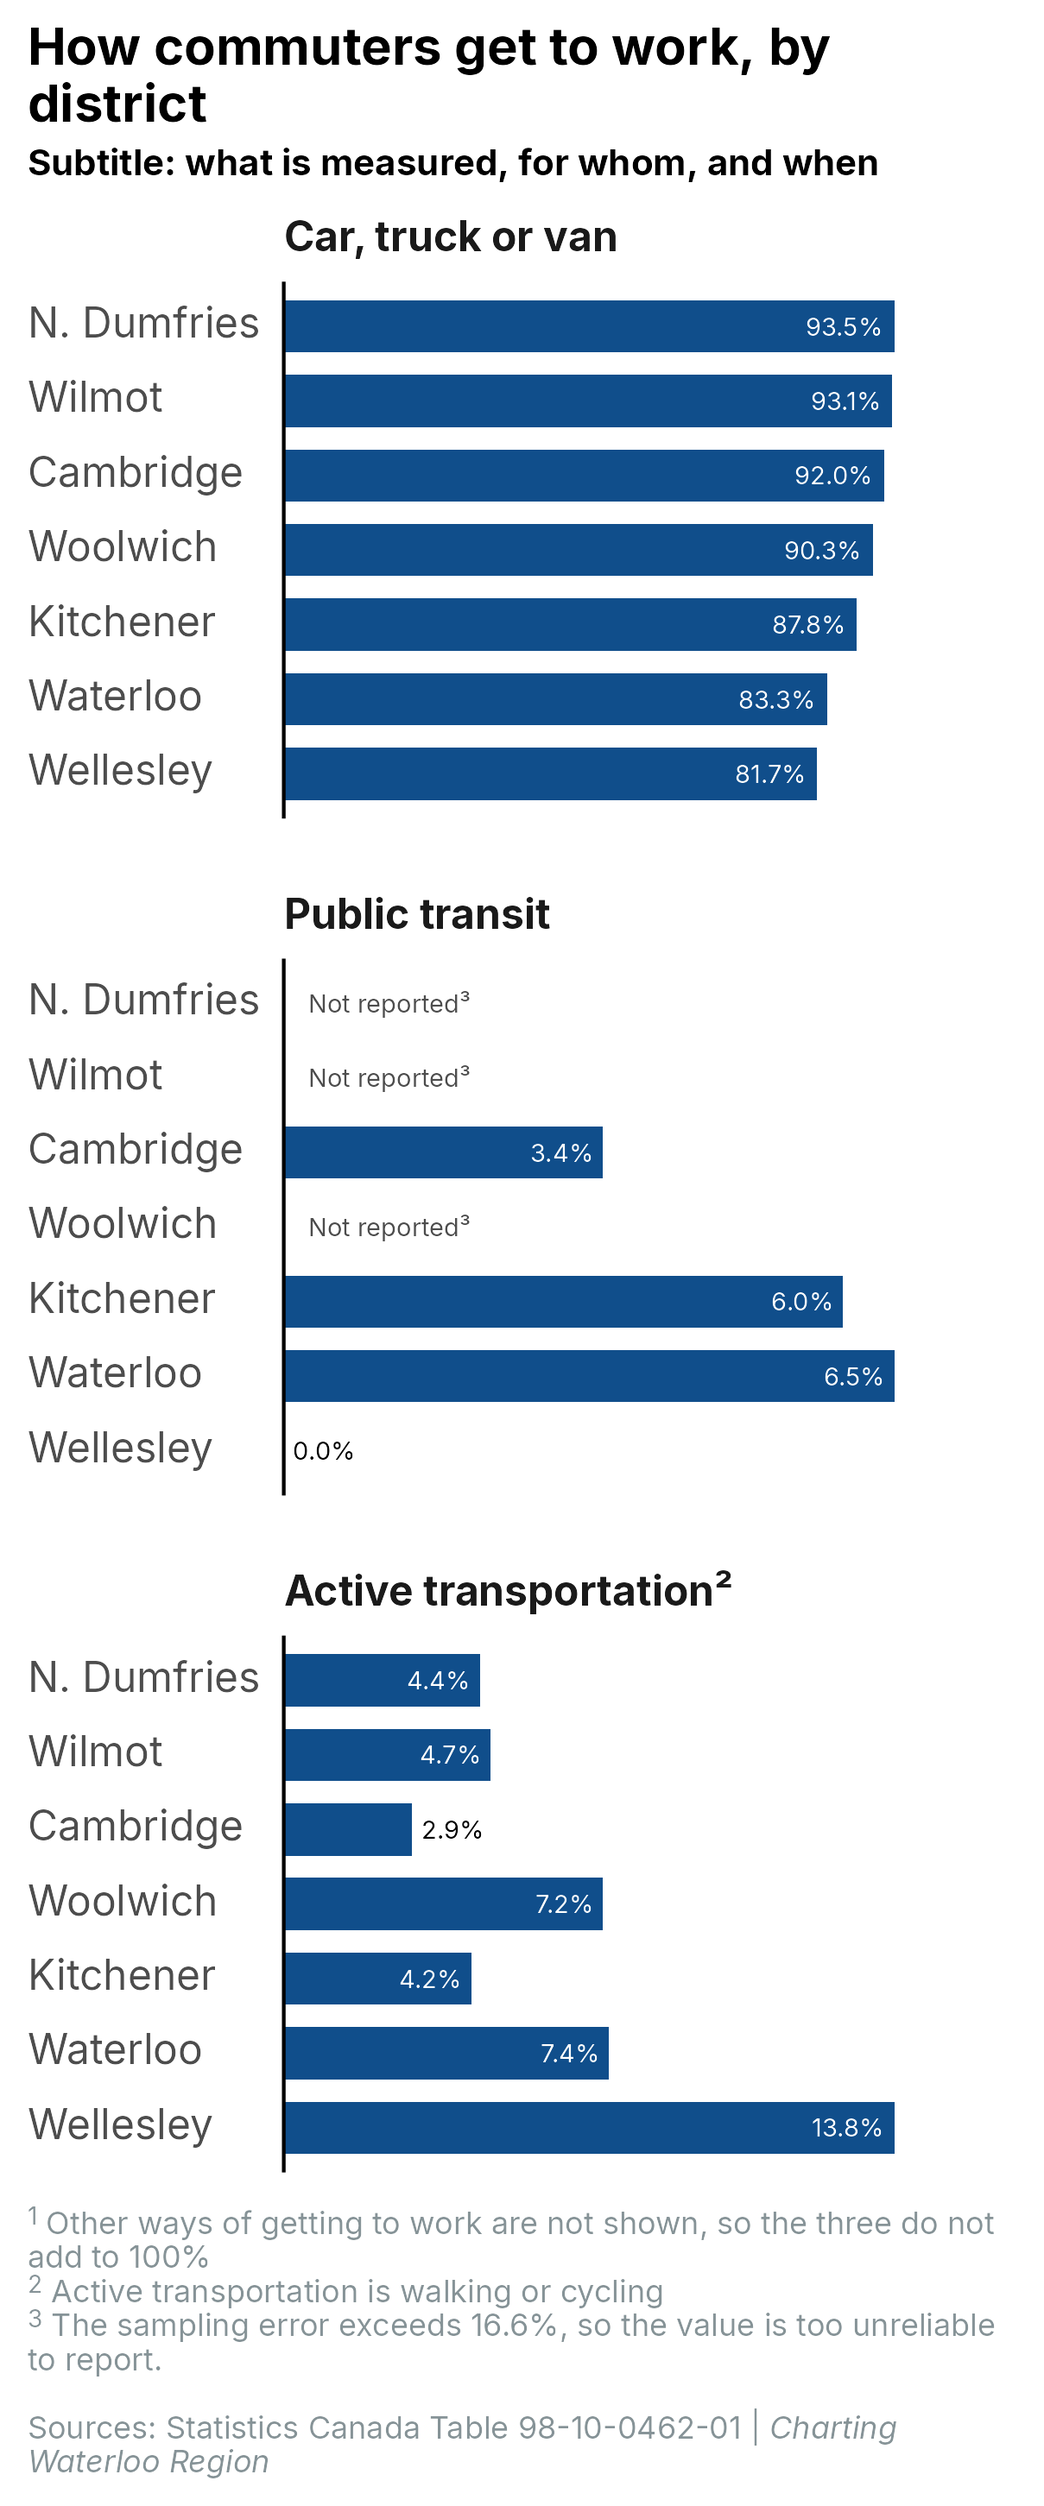
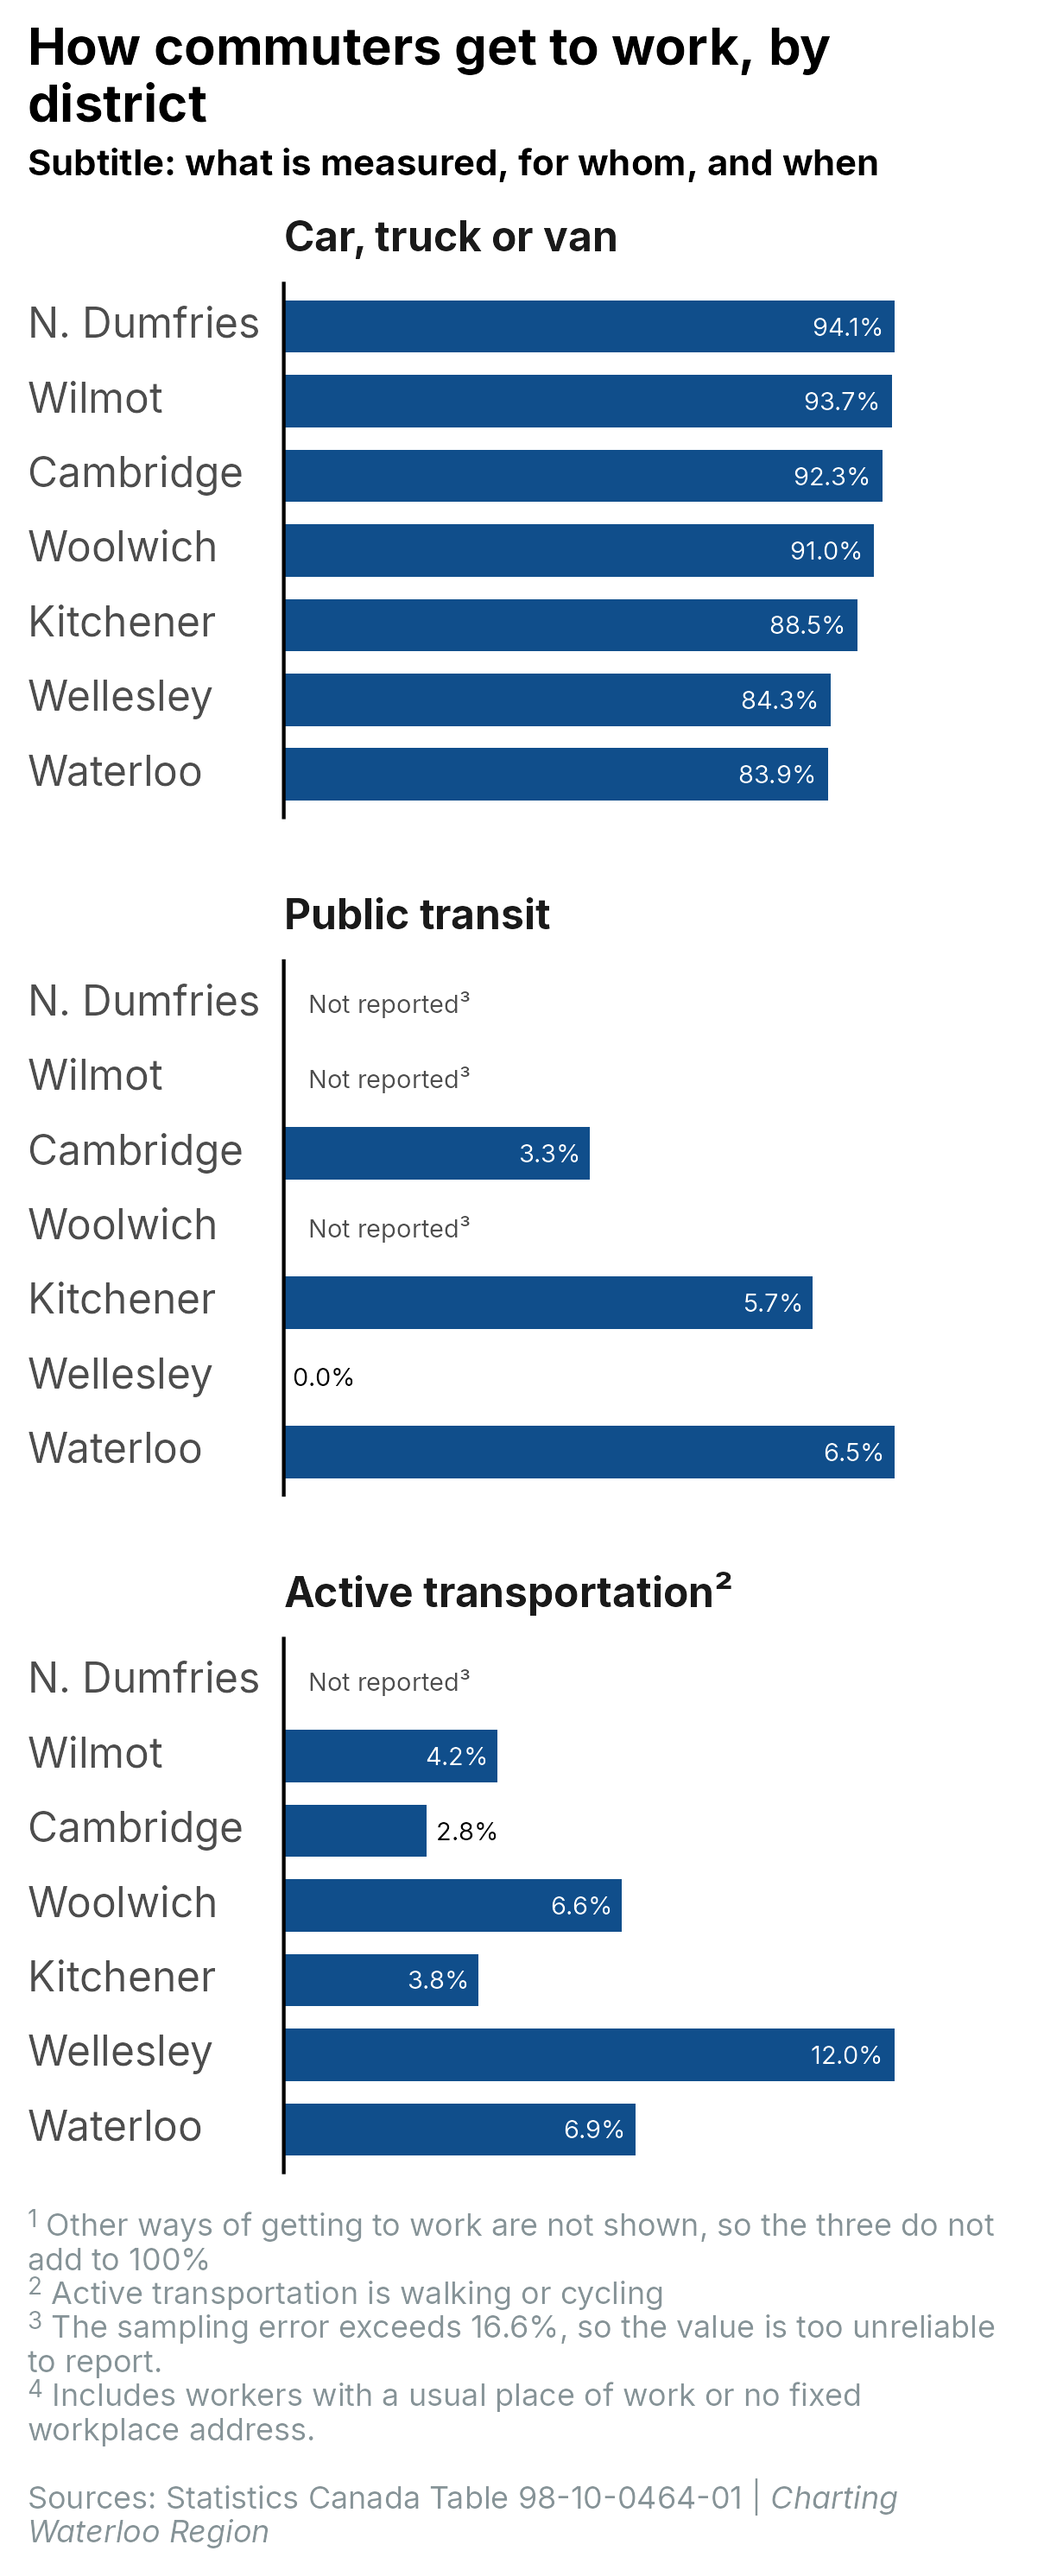
Draw the commuting mode chart from table 98-10-0464
98-10-0462's mode counts cover only workers with a usual place of work; the
mode question also covers people with no fixed workplace address, and
98-10-0464 counts them (200,595 commuters in the Region, not 171,575). It
matches Statistics Canada's own commuting release. Its 96 cells are fetched
one by one from the web data service, keeping each cell's status. North
Dumfries' active share is now rated E and not reported.

diff --git a/posts/commuting/README.md b/posts/commuting/README.md
@@ -6,7 +6,7 @@ Post: https://chartingwaterlooregion.ca/posts/commuting/
 
 | Term | Definition |
 |------------------------------------|------------------------------------|
-| Commuters (who is counted) | "Population aged 15 years and over, in private households, with a job or absent from their job or business during the week of Sunday, May 2 to Saturday, May 8, 2021, and who reported having a usual place of work." People who worked at home, worked outside Canada or had no fixed workplace address are not included. (2021 Census Dictionary) |
+| Commuters (who is counted) | "Population aged 15 years and over, in private households, with a job or absent from their job or business during the week of Sunday, May 2 to Saturday, May 8, 2021, and who reported having a usual place of work or no fixed workplace address." (2021 Census Dictionary, Main mode of commuting) The charts of where commuters work count only those "who reported having a usual place of work" (2021 Census Dictionary, Commuting destination); the chart of how they get to work also counts those with no fixed workplace address. People who worked at home or outside Canada are in neither. |
 | Home district | Workers who work in the township/city they live in. |
 | Elsewhere in Region | Workers who work in a Region township/city other than their home district. |
 | Outside Region | Workers who work outside the Region. |
@@ -33,6 +33,7 @@ Post: https://chartingwaterlooregion.ca/posts/commuting/
 | File in `data-raw/` | What it is | Source (link) | Licence | Sample | Accessed |
 |------------|------------|------------|------------|------------|------------|
 | `table_98100462.csv` | Table 98-10-0462-01, commuting destination by mode, age and gender, 2021 census | [Statistics Canada](https://www150.statcan.gc.ca/t1/tbl1/en/tv.action?pid=9810046201) | [Statistics Canada Open Licence](https://www.statcan.gc.ca/en/reference/licence) | Census long form, 25% sample of private households | 2026-09-15 |
+| `table_98100464.csv` | Table 98-10-0464-01, main mode of commuting by industry sectors, occupation broad category and gender, 2021 census: the 96 cells the mode chart uses (the Region and its seven districts; total, car, truck or van, public transit and active transportation; each count with its 95% confidence interval bounds), fetched from Statistics Canada's web data service | [Statistics Canada](https://www150.statcan.gc.ca/t1/tbl1/en/tv.action?pid=9810046401) | [Statistics Canada Open Licence](https://www.statcan.gc.ca/en/reference/licence) | Census long form, 25% sample of private households | 2026-09-22 |
 | `table_98100459_region.csv`, `table_98100459_members.csv` | Table 98-10-0459-01, commuting flow from place of residence to place of work, 2021 census, cut to commutes with one end in the Region; the members file is the table's own list of places and codes | [Statistics Canada](https://www150.statcan.gc.ca/t1/tbl1/en/tv.action?pid=9810045901) | [Statistics Canada Open Licence](https://www.statcan.gc.ca/en/reference/licence) | Census long form, 25% sample of private households | 2026-09-17 |
 | `census_tnr.csv` | Long-form and short-form total non-response rates for the Region and its seven districts, read from each area's Census Profile page by `cwr_census_tnr()` | [Statistics Canada, Census Profile 2021](https://www12.statcan.gc.ca/census-recensement/2021/dp-pd/prof/index.cfm?Lang=E) | [Statistics Canada Open Licence](https://www.statcan.gc.ca/en/reference/licence) | None (rates about the census's own collection) | 2026-09-22 |
 | `table_98100572.csv` | Table 98-10-0572-01, long-form data quality indicators for commuting: non-response and imputation rates per question, cut to the Region's eight geographies | [Statistics Canada](https://www150.statcan.gc.ca/t1/tbl1/en/tv.action?pid=9810057201) | [Statistics Canada Open Licence](https://www.statcan.gc.ca/en/reference/licence) | Census long form, 25% sample of private households (the rates are weighted estimates) | 2026-09-22 |
@@ -44,12 +45,12 @@ Files that cannot be re-downloaded by script, or are over 25 MB, are attached to
 
 | Issue | Left out of the post because |
 |------------------------------------|------------------------------------|
-| **Long-form census:** every chart in this post is drawn from the 2021 census long-form questionnaire (tables 98-10-0462 and 98-10-0459). Its figures are estimates for people in private households, from the 2021 census long-form questionnaire sent to 25% of households; people living in collective dwellings, such as nursing and seniors' homes and student residences, are not included. Each responding household stands for about four, its weight adjusted by Statistics Canada for households that did not respond and matched to the full census counts of age, household size and other characteristics; answers left blank are filled in from similar households. (tables 98-10-0459, 98-10-0462) |  |
-| **Sample estimates:** because the figures are estimates, each share worked out from table 98-10-0462 has a 95% confidence interval, built from the intervals Statistics Canada publishes for its counts by Statistics Canada's own method. The intervals cover sampling error and the variability from households that did not respond; they do not cover any bias if those households differ from the ones that did, answers filled in for blank questions, people the census missed or counted twice, misreported answers, or rounding. A share whose sampling error is 16.6% of its value or more - rated "use with caution" (E) or "too unreliable to be published" (F) on Statistics Canada's scale - is not reported: public transit in North Dumfries (F), Wilmot (E) and Woolwich (E). Table 98-10-0459 publishes no intervals, so close rankings drawn from it may differ only by sampling error. (tables 98-10-0459, 98-10-0462) |  |
+| **Long-form census:** every chart in this post is drawn from the 2021 census long-form questionnaire (tables 98-10-0462, 98-10-0464 and 98-10-0459). Its figures are estimates for people in private households, from the 2021 census long-form questionnaire sent to 25% of households; people living in collective dwellings, such as nursing and seniors' homes and student residences, are not included. Each responding household stands for about four, its weight adjusted by Statistics Canada for households that did not respond and matched to the full census counts of age, household size and other characteristics; answers left blank are filled in from similar households. (tables 98-10-0459, 98-10-0462, 98-10-0464) |  |
+| **Sample estimates:** because the figures are estimates, each share worked out from tables 98-10-0462 and 98-10-0464 has a 95% confidence interval, built from the intervals Statistics Canada publishes for its counts by Statistics Canada's own method. The intervals cover sampling error and the variability from households that did not respond; they do not cover any bias if those households differ from the ones that did, answers filled in for blank questions, people the census missed or counted twice, misreported answers, or rounding. A share whose sampling error is 16.6% of its value or more - rated "use with caution" (E) or "too unreliable to be published" (F) on Statistics Canada's scale - is not reported: public transit in North Dumfries (F), Wilmot (E) and Woolwich (E), and active transportation in North Dumfries (E). Table 98-10-0459 publishes no intervals, so close rankings drawn from it may differ only by sampling error. (tables 98-10-0459, 98-10-0462, 98-10-0464) |  |
 | **Response rates:** 1.5% to 5.0% of the households sent the long form in each district returned nothing usable (3.3% for the Region; Statistics Canada advises caution only at 50% or more), and 1.3% to 4.6% of the answers to the place-of-work and mode-of-commuting questions were missing or filled in. (Census Profile 2021; table 98-10-0572) |  |
 | **Commuting flows:** Statistics Canada randomly rounds each flow to a multiple of 5 to protect confidentiality, so small flows, and the shares worked out from them, are approximate. (table 98-10-0459) <!-- flags: 98-10-0459:note1 --> |  |
-| **Not applicable:** three counts are zero (commuters from North Dumfries and Wellesley who work in another province, and Wellesley's transit commuters), and a zero count has no confidence interval, so its bounds are marked "..." (not applicable). (table 98-10-0462) <!-- flags: 98-10-0462:... --> | Does not apply: a share of zero has no interval, so these bounds are never used; the zero itself is charted as published. |
-| **Men+ and Women+:** because the non-binary population is small, non-binary people are counted in the Men+ and Women+ categories. (tables 98-10-0459, 98-10-0462) <!-- flags: 98-10-0459:note3, 98-10-0462:note3 --> | Does not apply: every chart uses the total for all genders, so the Men+ and Women+ split is not used. |
+| **Not applicable:** three counts are zero (commuters from North Dumfries and Wellesley who work in another province, in table 98-10-0462, and Wellesley's transit commuters, in table 98-10-0464), and a zero count has no confidence interval, so its bounds are marked "..." (not applicable). (tables 98-10-0462, 98-10-0464) <!-- flags: 98-10-0462:..., 98-10-0464:... --> | Does not apply: a share of zero has no interval, so these bounds are never used; the zero itself is charted as published. |
+| **Men+ and Women+:** because the non-binary population is small, non-binary people are counted in the Men+ and Women+ categories. (tables 98-10-0459, 98-10-0462, 98-10-0464) <!-- flags: 98-10-0459:note3, 98-10-0462:note3, 98-10-0464:note4 --> | Does not apply: every chart uses the total for all genders, so the Men+ and Women+ split is not used. |
 
 ```{=html}
 <!-- One row per data-quality issue in the data the post uses: each flag and quality footnote
@@ -96,5 +97,6 @@ Then `quarto render posts/commuting` from a terminal.
 
 - Background reading for this post is kept outside the repository (`../chartingwaterlooregion-background/commuting/`).
 - No API keys are needed. <!-- If one is, say which and how to get it. -->
-- Sampling: both commuting tables come from the 2021 census long-form questionnaire, which went to a 25% sample of private households, so every figure is a weighted estimate for everyone in private households (not a count of respondents, and without people in collective dwellings), and the charts show shares. The Reliability table's "Long-form census" and "Sample estimates" rows say so in the post; the charts carry no sampling note of their own. Table 98-10-0462 publishes a 95% confidence interval for each count (its `Statistics` dimension). `R/02_clean_data.R` turns those into 95% intervals for the shares in `commuting.csv` and `commuting_mode.csv` (`percent_lower`, `percent_upper`) with `R/census_ci.R`, which follows Statistics Canada's own method: each count's variance is backed out of its published modified Wilson interval (Student's t on 32 degrees of freedom), the share's standard error comes from the US Census Bureau's proportion formula, which allows for the part being counted inside the total, and the share's interval is a modified Wilson interval. `cv` is the coefficient of variation, and `quality` rates it on Statistics Canada's scale: E from 16.6%, F above 33.3%. E and F shares are blanked, as this site never uses either; the mode chart names them "Not reported" with a note. The first chart states the widest of its intervals in a note. The intervals are least exact for very small shares and small places, and too wide near 100% where the Census Bureau formula falls back to its cautious form (Wilmot's car share). Table 98-10-0459 publishes no intervals, so the destination and feeder rankings carry a note that close shares may differ only by sampling error. Counts are also randomly rounded to a multiple of 5, so a share built on a count under about 50 is rough whatever its interval. Response: `data/census_quality.csv` holds each area's long-form total non-response rate and the non-response and imputation rates for the place-of-work and mode questions (from `census_tnr.csv` and table 98-10-0572); all are low.
+- Sampling: all three commuting tables come from the 2021 census long-form questionnaire, which went to a 25% sample of private households, so every figure is a weighted estimate for everyone in private households (not a count of respondents, and without people in collective dwellings), and the charts show shares. The Reliability table's "Long-form census" and "Sample estimates" rows say so in the post; the charts carry no sampling note of their own. Tables 98-10-0462 (destinations) and 98-10-0464 (modes) publish a 95% confidence interval for each count (their `Statistics` dimension). `R/02_clean_data.R` turns those into 95% intervals for the shares in `commuting.csv` and `commuting_mode.csv` (`percent_lower`, `percent_upper`) with `R/census_ci.R`, which follows Statistics Canada's own method: each count's variance is backed out of its published modified Wilson interval (Student's t on 32 degrees of freedom), the share's standard error comes from the US Census Bureau's proportion formula, which allows for the part being counted inside the total, and the share's interval is a modified Wilson interval. `cv` is the coefficient of variation, and `quality` rates it on Statistics Canada's scale: E from 16.6%, F above 33.3%. E and F shares are blanked, as this site never uses either; the mode chart names them "Not reported" with a note. The first chart states the widest of its intervals in a note. The intervals are least exact for very small shares and small places, and too wide near 100% where the Census Bureau formula falls back to its cautious form (Wilmot's car share). Table 98-10-0459 publishes no intervals, so the destination and feeder rankings carry a note that close shares may differ only by sampling error. Counts are also randomly rounded to a multiple of 5, so a share built on a count under about 50 is rough whatever its interval. Response: `data/census_quality.csv` holds each area's long-form total non-response rate and the non-response and imputation rates for the place-of-work and mode questions (from `census_tnr.csv` and table 98-10-0572); all are low.
+- Mode of commuting comes from table 98-10-0464, not 98-10-0462: 98-10-0462 is crossed with commuting destination, so its mode figures cover only people with a usual place of work, while the mode question also covers people with no fixed workplace address (about 29,000 more commuters in the Region, 200,595 against 171,575). 98-10-0464 is the table Statistics Canada's commuting release in The Daily (2022-11-30) quotes. 98-10-0461 has 98-10-0462's limit, being crossed with distance to a usual place of work. 98-10-0464 has 90 million cells, so `R/01_get_data.R` fetches only the 96 it needs from the web data service, by coordinate; a zero count is not returned by the service and is filled in as zero.
 - The commuting table is cut down as it is downloaded, to Waterloo Region and its seven districts. Whole, it covers every census subdivision in Canada and runs to hundreds of megabytes, and nothing outside those rows is used.
